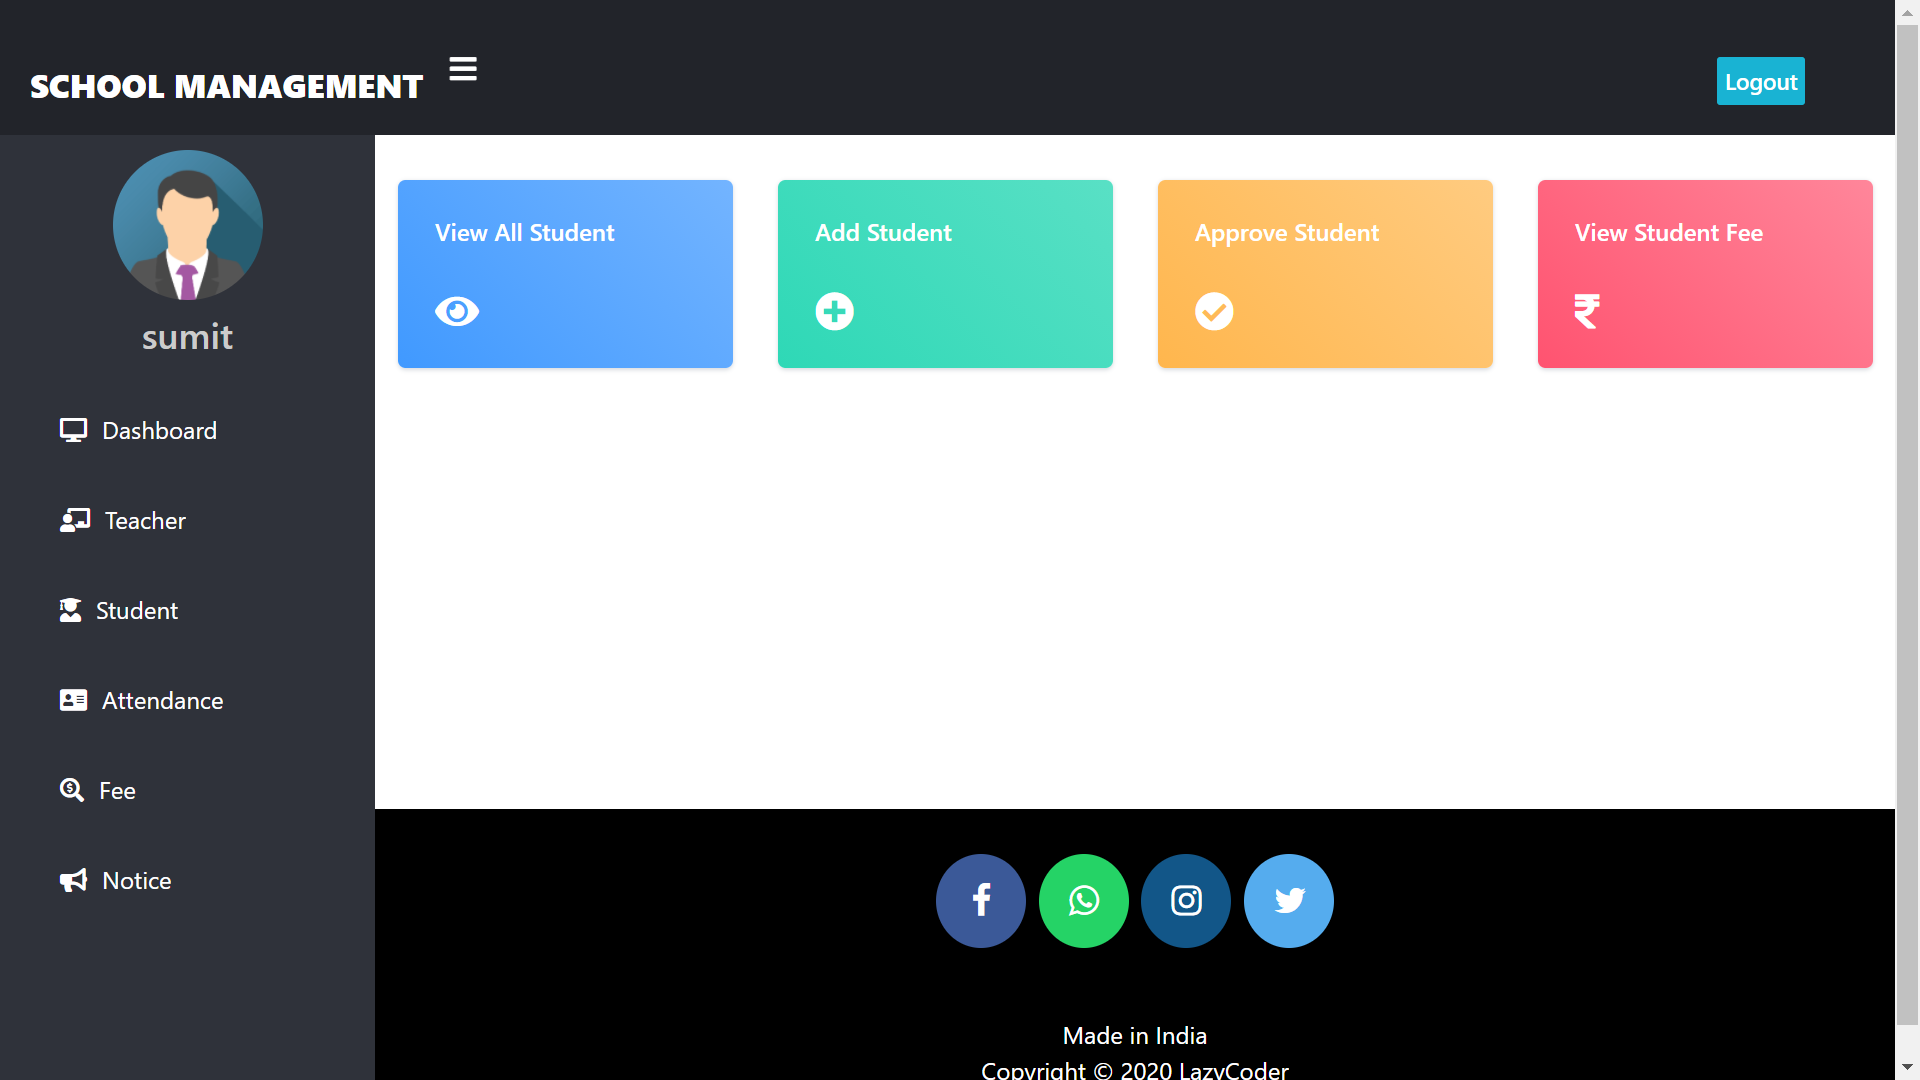
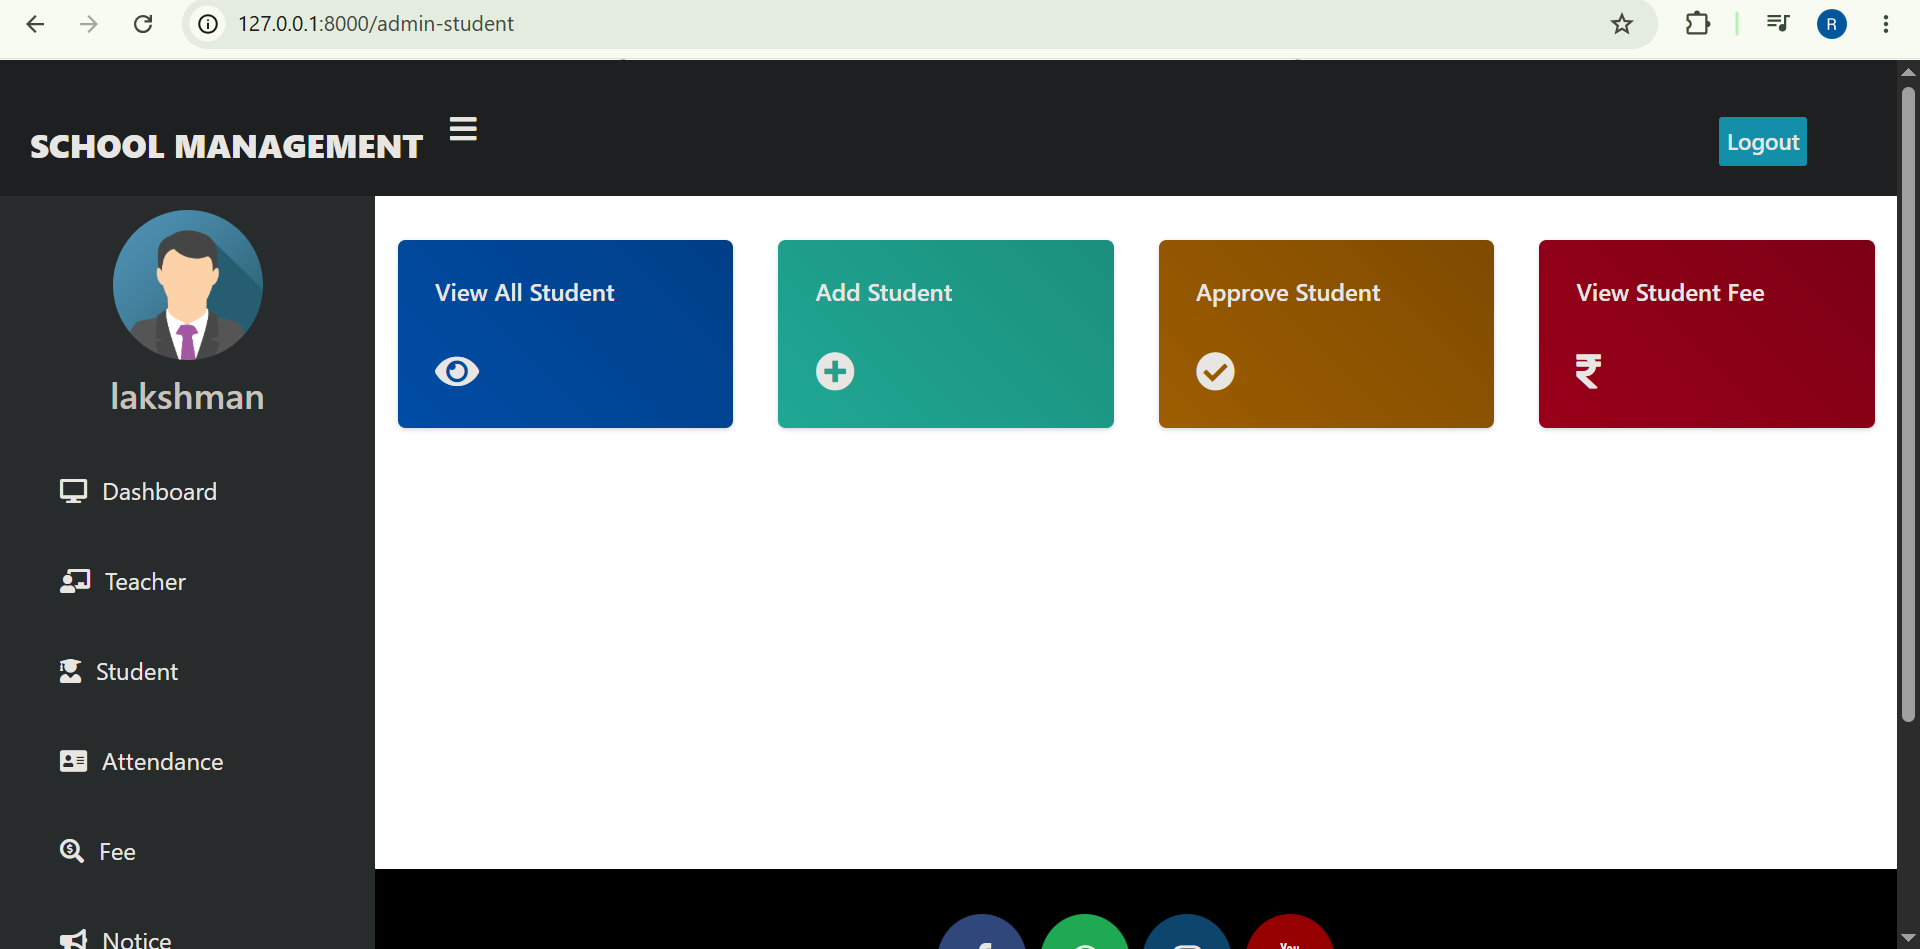
Initial Django school management project update

diff --git a/templates/school/footer.html b/templates/school/footer.html
@@ -69,8 +69,8 @@
     <a href="https://www.youtube.com/@RamiReddySana" class="fa fa-youtube" aria-label="YouTube" title="YouTube"></a>
   </p>
 
-  <p style="color:#ffffff;">Suggestions and feedback are welcome. You can message me on
-    <a href="https://www.facebook.com/RamiReddy04?mibextid=ZbWKwL" target="_blank" rel="noopener noreferrer" style="color:#ffffff;">Facebook</a>.
+  <p style="color:#ffffff;">Suggestions and feedback are welcome. You can message me on Facebook: 
+    <a href="https://www.facebook.com/RamiReddy04?mibextid=ZbWKwL" target="_blank" rel="noopener noreferrer" style="color:#ffffff;">https://www.facebook.com/RamiReddy04?mibextid=ZbWKwL</a>
   </p>
 
   <br>
@@ -79,7 +79,7 @@
       <div class="col-md-12 col-sm-12">
         <div style="color:#ffffff;" class="wow fadeInUp footer-copyright">
           <p>Made in India <br>
-            Copyright &copy; 2020 LazyCoder </p>
+            Copyright &copy; 2026 LazyCoder </p>
         </div>
       </div>
     </div>

diff --git a/school/views.py b/school/views.py
@@ -114,11 +114,13 @@ def teacher_signup_view(request):
 
 #for checking user is techer , student or admin(by Ramu)
 def is_admin(user):
-    return user.groups.filter(name='ADMIN').exists()
+    return user.is_authenticated and (user.is_superuser or user.groups.filter(name='ADMIN').exists())
+
 def is_teacher(user):
-    return user.groups.filter(name='TEACHER').exists()
+    return user.is_authenticated and user.groups.filter(name='TEACHER').exists()
+
 def is_student(user):
-    return user.groups.filter(name='STUDENT').exists()
+    return user.is_authenticated and user.groups.filter(name='STUDENT').exists()
 
 
 def afterlogin_view(request):
@@ -136,6 +138,7 @@ def afterlogin_view(request):
             return redirect('student-dashboard')
         else:
             return render(request,'school/student_wait_for_approval.html')
+    return redirect('/')
 
 
 
